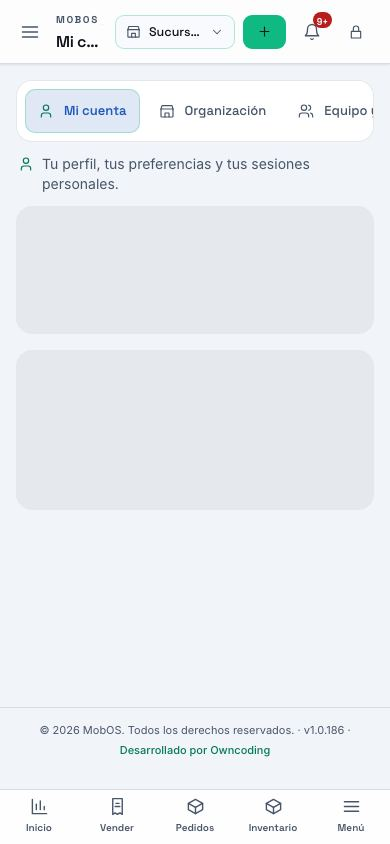
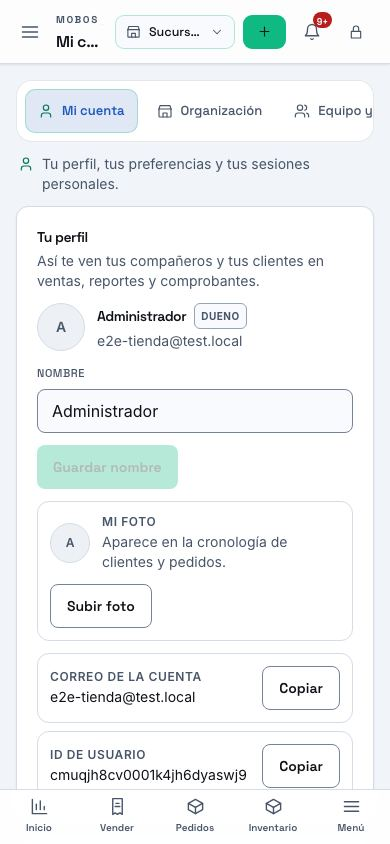
test(e2e): navegación y edición bajo demanda de Configuración (Refs #298)
Spec de 3 casos: riel siempre con texto (escritorio y mobile), tarjeta
única de Datos de la tienda con Editar y barra solo con cambios, y guardado
real que restaura el dato compartido. Specs existentes adaptados; capturas
en docs/qa/298-configuracion y shards regenerados.

diff --git a/e2e/qa-298-configuracion.spec.js b/e2e/qa-298-configuracion.spec.js
@@ -1,0 +1,158 @@
+// #298 · Configuración: una sola navegación con texto y edición bajo demanda.
+//
+// - El riel de los 7 grupos ya no se colapsa a solo iconos: siempre muestra el
+//   rótulo (escritorio y mobile), con el deep link intacto.
+// - «Datos de la tienda» es una única tarjeta: en lectura muestra los datos y
+//   «Editar»; la edición reemplaza la misma tarjeta (2 columnas, dirección a
+//   ancho completo) y la barra «Guardar cambios» aparece solo con cambios.
+//
+// Capturas: MOBOS_298_CAPTURAS=docs/qa/298-configuracion \
+//   npx playwright test e2e/qa-298-configuracion.spec.js
+import { test, expect } from '@playwright/test'
+import { mkdirSync } from 'node:fs'
+import { join } from 'node:path'
+import { SEED } from './helpers/seed-data.js'
+
+const SALIDA = process.env.MOBOS_298_CAPTURAS || ''
+const NAV = '[data-testid="config-grupos"]'
+const TOGGLE = '[data-testid="config-grupos-toggle"]'
+const ETIQUETAS = ['Mi cuenta', 'Organización', 'Equipo y acceso', 'Comercial', 'Seguridad y auditoría', 'Dispositivos', 'Sistema']
+
+async function capturar(page, nombre) {
+  if (!SALIDA) return
+  mkdirSync(SALIDA, { recursive: true })
+  await page.screenshot({ path: join(SALIDA, `${nombre}.png`), fullPage: true })
+}
+
+async function abrirEdicion(page) {
+  await page.goto('/configuracion/organizacion')
+  await page.getByTestId('datos-tienda-editar').click()
+  await expect(page.getByTestId('datos-tienda-form')).toBeVisible()
+  await expect(page.locator('#edit-nombre')).not.toHaveValue('', { timeout: 20_000 })
+}
+
+// La sesión del arnés puede tener vencida la ventana de reautenticación: si el
+// panel aparece, se verifica la contraseña y el guardado sigue solo.
+async function confirmarPasswordSiPide(page) {
+  const panel = page.getByTestId('datos-tienda-reauth')
+  const aparece = await panel.waitFor({ state: 'visible', timeout: 3000 }).then(() => true).catch(() => false)
+  if (!aparece) return
+  await panel.getByLabel('Contraseña para guardar los cambios').fill(SEED.company.password)
+  await panel.getByRole('button', { name: 'Verificar y guardar' }).click()
+}
+
+test('#298 · una sola navegación de Configuración, siempre con texto', async ({ page }) => {
+  await page.setViewportSize({ width: 1280, height: 900 })
+  await page.goto('/configuracion/organizacion')
+  const nav = page.locator(NAV)
+  await expect(nav).toBeVisible({ timeout: 20_000 })
+
+  // Sin toggle de colapso y con los siete rótulos a la vista.
+  await expect(page.locator(TOGGLE)).toHaveCount(0)
+  for (const etiqueta of ETIQUETAS) await expect(nav.getByText(etiqueta, { exact: true })).toBeVisible()
+
+  // Deep link intacto y navegación entre secciones.
+  await page.goto('/configuracion/seguridad')
+  await expect(page.locator(NAV).getByRole('tab', { name: 'Seguridad y auditoría' })).toHaveAttribute('aria-selected', 'true')
+  await page.locator(NAV).getByRole('tab', { name: 'Organización' }).click()
+  await expect(page).toHaveURL(/\/configuracion\/organizacion$/)
+  expect(await page.evaluate(() => document.documentElement.scrollWidth <= document.documentElement.clientWidth + 1)).toBe(true)
+  await capturar(page, '01-navegacion-escritorio')
+
+  // Mobile: tira horizontal, rótulos visibles y sin desborde.
+  await page.setViewportSize({ width: 390, height: 844 })
+  await page.reload()
+  for (const etiqueta of ['Mi cuenta', 'Organización', 'Seguridad y auditoría']) {
+    await expect(page.locator(NAV).getByText(etiqueta, { exact: true })).toBeVisible()
+  }
+  expect(await page.evaluate(() => document.documentElement.scrollWidth <= document.documentElement.clientWidth + 1)).toBe(true)
+  await capturar(page, '02-navegacion-mobile')
+})
+
+test('#298 · Datos de la tienda: una sola tarjeta con Editar y sin resumen duplicado', async ({ page }) => {
+  await page.setViewportSize({ width: 1280, height: 900 })
+  await page.goto('/configuracion/organizacion')
+  await expect(page.getByRole('heading', { name: 'Datos de la tienda', exact: true })).toHaveCount(1)
+  await expect(page.getByTestId('datos-tienda-lectura')).toBeVisible()
+  await expect(page.locator('#edit-nombre')).toHaveCount(0)
+  await expect(page.getByTestId('datos-tienda-form')).toHaveCount(0)
+  await expect(page.getByTestId('datos-tienda-barra')).toHaveCount(0)
+  await capturar(page, '03-datos-lectura')
+
+  await page.getByTestId('datos-tienda-editar').click()
+  // La edición reemplaza la tarjeta: no quedan los datos duplicados al lado.
+  await expect(page.getByTestId('datos-tienda-form')).toBeVisible()
+  await expect(page.getByTestId('datos-tienda-lectura')).toHaveCount(0)
+
+  // Formulario en 2 columnas; la dirección ocupa el ancho completo.
+  const nombre = await page.locator('#edit-nombre').boundingBox()
+  const direccion = await page.locator('#edit-direccion').boundingBox()
+  expect(direccion.width).toBeGreaterThan(nombre.width * 1.6)
+  expect(direccion.y).toBeGreaterThan(nombre.y + 10)
+  // Sin diferencias no hay barra de guardado.
+  await expect(page.getByTestId('datos-tienda-barra')).toHaveCount(0)
+  await capturar(page, '04-datos-edicion')
+
+  // Tocar un campo crea el cambio: la barra aparece; revertirlo la esconde.
+  const original = await page.locator('#edit-direccion').inputValue()
+  await page.locator('#edit-direccion').fill(`${original} QA 298`)
+  await expect(page.getByTestId('datos-tienda-barra')).toContainText('Guardar cambios')
+  await capturar(page, '05-datos-con-cambios')
+  await page.locator('#edit-direccion').fill(original)
+  await expect(page.getByTestId('datos-tienda-barra')).toHaveCount(0)
+
+  // Cancelar vuelve a la tarjeta de lectura.
+  await page.getByRole('button', { name: 'Cancelar' }).click()
+  await expect(page.getByTestId('datos-tienda-lectura')).toBeVisible()
+  await expect(page.getByTestId('datos-tienda-form')).toHaveCount(0)
+})
+
+test('#298 · «Guardar cambios» solo se envía con diferencias y persiste', async ({ page }) => {
+  await page.setViewportSize({ width: 1280, height: 900 })
+  const updates = []
+  page.on('request', (peticion) => {
+    if (peticion.method() === 'PATCH' && peticion.url().includes('/api/account')) updates.push(peticion.postData() || '')
+  })
+
+  await abrirEdicion(page)
+  const original = await page.locator('#edit-direccion').inputValue()
+  const nueva = original === 'Av. QA 298' ? 'Av. QA 298 bis' : 'Av. QA 298'
+  try {
+    // Enter sin cambios: no viaja ningún guardado.
+    await page.locator('#edit-nombre').press('Enter')
+    await page.waitForTimeout(600)
+    expect(updates.filter((cuerpo) => cuerpo.includes('updateProfile'))).toHaveLength(0)
+
+    await page.locator('#edit-direccion').fill(nueva)
+    await page.getByRole('button', { name: 'Guardar cambios' }).click()
+    await confirmarPasswordSiPide(page)
+    await expect(page.getByText('Datos de la tienda actualizados.')).toBeVisible({ timeout: 20_000 })
+    // La tarjeta vuelve a lectura con el dato nuevo.
+    await expect(page.getByTestId('datos-tienda-lectura').getByText(nueva, { exact: true })).toBeVisible()
+    await capturar(page, '06-datos-guardado')
+    // Al menos un envío con el cambio (con reautenticación puede haber un
+    // primer intento rechazado y el reintento).
+    expect(updates.filter((cuerpo) => cuerpo.includes('updateProfile')).length).toBeGreaterThanOrEqual(1)
+
+    await page.reload()
+    await expect(page.getByTestId('datos-tienda-lectura').getByText(nueva, { exact: true })).toBeVisible({ timeout: 20_000 })
+
+    // Restaura el valor compartido por la suite.
+    await page.getByTestId('datos-tienda-editar').click()
+    await page.locator('#edit-direccion').fill(original)
+    await page.getByRole('button', { name: 'Guardar cambios' }).click()
+    await confirmarPasswordSiPide(page)
+    await expect(page.getByTestId('datos-tienda-lectura')).toBeVisible({ timeout: 20_000 })
+    if (original) await expect(page.getByTestId('datos-tienda-lectura').getByText(original, { exact: true })).toBeVisible()
+  } finally {
+    // Red de seguridad: si el test falló a mitad, restaura por API.
+    await page.evaluate(async ({ api, original }) => {
+      await fetch(`${api}/api/account`, {
+        method: 'PATCH',
+        credentials: 'include',
+        headers: { 'Content-Type': 'application/json' },
+        body: JSON.stringify({ action: 'updateProfile', address: original }),
+      }).catch(() => {})
+    }, { api: SEED.api, original })
+  }
+})

diff --git a/playwright.config.js b/playwright.config.js
@@ -121,7 +121,7 @@ export default defineConfig({
     {
       // Seeded owner session (PIN 1234) for control views.
       name: 'admin',
-      testMatch: /admin\.spec\.js|analisis\.spec\.js|auditoria\.spec\.js|campanas-recompra\.spec\.js|cobro-cuotas\.spec\.js|compras-densidad\.spec\.js|config-comercial\.spec\.js|config-guardado\.spec\.js|config-seguro-limites\.spec\.js|configuracion-lote5\.spec\.js|demo-publico\.spec\.js|documentacion\.spec\.js|documentos-no-fiscales\.spec\.js|dsn-241-a11y\.spec\.js|dsn-241-dominios\.spec\.js|dsn-responsive-mobile\.spec\.js|equipo-integrantes\.spec\.js|equipo-invitaciones\.spec\.js|etiquetas-gondola\.spec\.js|etiquetas-unidad\.spec\.js|finanzas-caja\.spec\.js|finanzas-comisiones\.spec\.js|finanzas-conciliacion\.spec\.js|finanzas-ultimo-usado\.spec\.js|ia-configuracion\.spec\.js|imei-mock\.spec\.js|impresion-plantilla\.spec\.js|impresion-remota\.spec\.js|informe-dispositivo\.spec\.js|informe-publico-checklist\.spec\.js|informe-publico-controles\.spec\.js|inventario-importacion\.spec\.js|inventario-pos-sync\.spec\.js|inventario-tabla-encabezado\.spec\.js|inventario-unidades\.spec\.js|invitar-persona\.spec\.js|kardex-producto\.spec\.js|menu-ia\.spec\.js|modales-tamanos\.spec\.js|notificaciones\.spec\.js|ocultos-plataforma\.spec\.js|ops\.spec\.js|perf-247\.spec\.js|pos-148-cobro-ux\.spec\.js|pos-148-s11-sin-stock\.spec\.js|pos-241-carrito-estados\.spec\.js|pos-241-v2\.spec\.js|pos-qa-173\.spec\.js|pos-resumen-fijo\.spec\.js|precios-listas\.spec\.js|public-quote-transfer\.spec\.js|qa-140-inventario\.spec\.js|qa-148-16-menciones\.spec\.js|qa-148-9-pos-montos\.spec\.js|qa-149-cliente-ocasional\.spec\.js|qa-160-perfil\.spec\.js|qa-236-clientes\.spec\.js|qa-240-buscador-dispositivo\.spec\.js|qa-240-garantia-portal\.spec\.js|qa-240-informe\.spec\.js|qa-240-informe-embebible\.spec\.js|qa-240-mensajes-tienda\.spec\.js|qa-240-portal-avisos\.spec\.js|qa-240-portal-cotizaciones\.spec\.js|qa-240-portal-pedido-detalle\.spec\.js|qa-240-portal-seguimiento\.spec\.js|qa-240-portal-vitrina\.spec\.js|qa-240-valuacion\.spec\.js|qa-241-clientes-v2\.spec\.js|qa-241-ficha-paso6\.spec\.js|qa-241-lote-c-tile\.spec\.js|qa-241-servicio-pipeline\.spec\.js|qa-241-servicio-v2\.spec\.js|qa-249-clientes-touch\.spec\.js|qa-249-inventario-touch\.spec\.js|qa-249-pos-touch\.spec\.js|qa-250-buscador-dependiente\.spec\.js|qa-250-cotizacion-correo\.spec\.js|qa-250-escaneo-recepcion\.spec\.js|qa-253-config-grupos\.spec\.js|qa-253-equipo-acceso\.spec\.js|qa-253-mi-cuenta\.spec\.js|qa-254-por-comprar\.spec\.js|qa-256-composicion\.spec\.js|qa-257-inventario-pos\.spec\.js|qa-261-cotizacion-envio\.spec\.js|qa-263-imei-venta\.spec\.js|qa-266-shell-header\.spec\.js|qa-267-config-menu\.spec\.js|qa-268-unificar-clientes\.spec\.js|qa-271-avatar-sin-flash\.spec\.js|qa-284-avatar-cache\.spec\.js|qa-271-avatar-superficies\.spec\.js|qa-279-push\.spec\.js|qa-278-cierre\.spec\.js|qa-280-gift-cards\.spec\.js|qa-279-a2-carrito\.spec\.js|qa-f6-metricas-abastecimiento\.spec\.js|qa-fin-compacto\.spec\.js|qa-260-cotizacion-cliente\.spec\.js|qa-325-roles-movil\.spec\.js|qa-279-transito\.spec\.js|qa-285-unidades\.spec\.js|qa-287-objeto-unificado\.spec\.js|qa-279-alternativas\.spec\.js|qa-323-modales\.spec\.js|quote-approval-otp\.spec\.js|qa-fin-repuestos-taller\.spec\.js|repuestos-proveedores\.spec\.js|ruc-extraccion\.spec\.js|seguridad-cuenta\.spec\.js|selector-sucursal\.spec\.js|servicio-tecnico\.spec\.js|traslados-etiquetas-lote\.spec\.js|vendidos-comprobante-rapido\.spec\.js|qa-320-sistema-visual\.spec\.js|pos-309-orden\.spec\.js|pos-308-venta-segura\.spec\.js|qa-321-ayuda\.spec\.js|qa-322-landing\.spec\.js|qa-323-fin-modales\.spec\.js|qa-305-inventario-escritorio\.spec\.js|qa-297-validacion-global\.spec\.js/,
+      testMatch: /admin\.spec\.js|analisis\.spec\.js|auditoria\.spec\.js|campanas-recompra\.spec\.js|cobro-cuotas\.spec\.js|compras-densidad\.spec\.js|config-comercial\.spec\.js|config-guardado\.spec\.js|config-seguro-limites\.spec\.js|configuracion-lote5\.spec\.js|demo-publico\.spec\.js|documentacion\.spec\.js|documentos-no-fiscales\.spec\.js|dsn-241-a11y\.spec\.js|dsn-241-dominios\.spec\.js|dsn-responsive-mobile\.spec\.js|equipo-integrantes\.spec\.js|equipo-invitaciones\.spec\.js|etiquetas-gondola\.spec\.js|etiquetas-unidad\.spec\.js|finanzas-caja\.spec\.js|finanzas-comisiones\.spec\.js|finanzas-conciliacion\.spec\.js|finanzas-ultimo-usado\.spec\.js|ia-configuracion\.spec\.js|imei-mock\.spec\.js|impresion-plantilla\.spec\.js|impresion-remota\.spec\.js|informe-dispositivo\.spec\.js|informe-publico-checklist\.spec\.js|informe-publico-controles\.spec\.js|inventario-importacion\.spec\.js|inventario-pos-sync\.spec\.js|inventario-tabla-encabezado\.spec\.js|inventario-unidades\.spec\.js|invitar-persona\.spec\.js|kardex-producto\.spec\.js|menu-ia\.spec\.js|modales-tamanos\.spec\.js|notificaciones\.spec\.js|ocultos-plataforma\.spec\.js|ops\.spec\.js|perf-247\.spec\.js|pos-148-cobro-ux\.spec\.js|pos-148-s11-sin-stock\.spec\.js|pos-241-carrito-estados\.spec\.js|pos-241-v2\.spec\.js|pos-qa-173\.spec\.js|pos-resumen-fijo\.spec\.js|precios-listas\.spec\.js|public-quote-transfer\.spec\.js|qa-140-inventario\.spec\.js|qa-148-16-menciones\.spec\.js|qa-148-9-pos-montos\.spec\.js|qa-149-cliente-ocasional\.spec\.js|qa-160-perfil\.spec\.js|qa-236-clientes\.spec\.js|qa-240-buscador-dispositivo\.spec\.js|qa-240-garantia-portal\.spec\.js|qa-240-informe\.spec\.js|qa-240-informe-embebible\.spec\.js|qa-240-mensajes-tienda\.spec\.js|qa-240-portal-avisos\.spec\.js|qa-240-portal-cotizaciones\.spec\.js|qa-240-portal-pedido-detalle\.spec\.js|qa-240-portal-seguimiento\.spec\.js|qa-240-portal-vitrina\.spec\.js|qa-240-valuacion\.spec\.js|qa-241-clientes-v2\.spec\.js|qa-241-ficha-paso6\.spec\.js|qa-241-lote-c-tile\.spec\.js|qa-241-servicio-pipeline\.spec\.js|qa-241-servicio-v2\.spec\.js|qa-249-clientes-touch\.spec\.js|qa-249-inventario-touch\.spec\.js|qa-249-pos-touch\.spec\.js|qa-250-buscador-dependiente\.spec\.js|qa-250-cotizacion-correo\.spec\.js|qa-250-escaneo-recepcion\.spec\.js|qa-253-config-grupos\.spec\.js|qa-253-equipo-acceso\.spec\.js|qa-253-mi-cuenta\.spec\.js|qa-254-por-comprar\.spec\.js|qa-256-composicion\.spec\.js|qa-257-inventario-pos\.spec\.js|qa-261-cotizacion-envio\.spec\.js|qa-263-imei-venta\.spec\.js|qa-266-shell-header\.spec\.js|qa-268-unificar-clientes\.spec\.js|qa-271-avatar-sin-flash\.spec\.js|qa-284-avatar-cache\.spec\.js|qa-271-avatar-superficies\.spec\.js|qa-279-push\.spec\.js|qa-278-cierre\.spec\.js|qa-280-gift-cards\.spec\.js|qa-279-a2-carrito\.spec\.js|qa-f6-metricas-abastecimiento\.spec\.js|qa-fin-compacto\.spec\.js|qa-260-cotizacion-cliente\.spec\.js|qa-325-roles-movil\.spec\.js|qa-279-transito\.spec\.js|qa-285-unidades\.spec\.js|qa-287-objeto-unificado\.spec\.js|qa-279-alternativas\.spec\.js|qa-323-modales\.spec\.js|quote-approval-otp\.spec\.js|qa-fin-repuestos-taller\.spec\.js|repuestos-proveedores\.spec\.js|ruc-extraccion\.spec\.js|seguridad-cuenta\.spec\.js|selector-sucursal\.spec\.js|servicio-tecnico\.spec\.js|traslados-etiquetas-lote\.spec\.js|vendidos-comprobante-rapido\.spec\.js|qa-320-sistema-visual\.spec\.js|pos-309-orden\.spec\.js|pos-308-venta-segura\.spec\.js|qa-321-ayuda\.spec\.js|qa-322-landing\.spec\.js|qa-323-fin-modales\.spec\.js|qa-305-inventario-escritorio\.spec\.js|qa-297-validacion-global\.spec\.js|qa-298-configuracion\.spec\.js/,
 
       use: { storageState: 'e2e/.auth/admin.json' },
     },

diff --git a/e2e/qa-253-config-grupos.spec.js b/e2e/qa-253-config-grupos.spec.js
@@ -84,35 +84,18 @@ test.describe('Configuración · estructura de los 7 grupos', () => {
     }
   })
 
-  test('la navegación se contrae a íconos con tooltip y se recuerda', async ({ page }) => {
+  test('la navegación siempre muestra los rótulos (sin colapso a íconos) (#298)', async ({ page }) => {
     await page.setViewportSize({ width: 1280, height: 900 })
     await page.goto('/configuracion/mi-cuenta')
     const nav = page.locator(NAV)
-    const toggle = page.getByTestId('config-grupos-toggle')
-    await expect(toggle).toBeVisible({ timeout: 20_000 })
-    await expect(toggle).toHaveAttribute('aria-expanded', 'true')
-
-    await toggle.click()
-    await expect(toggle).toHaveAttribute('aria-expanded', 'false')
-    await expect(toggle).toHaveAttribute('aria-expanded', 'false')
-    // Solo íconos: la etiqueta visible se oculta y el nombre sigue por aria/title.
-    await expect(nav.getByText('Organización', { exact: true })).toBeHidden()
-    const tab = page.getByRole('tab', { name: 'Organización', exact: true })
-    await expect(tab).toHaveAttribute('title', 'Organización')
-    await expect(tab).toHaveAttribute('aria-label', 'Organización')
+    await expect(nav.getByText('Organización', { exact: true })).toBeVisible({ timeout: 20_000 })
+    // #298: se retiró el colapso a solo iconos; el riel conserva su ancho.
+    await expect(page.getByTestId('config-grupos-toggle')).toHaveCount(0)
     const caja = await nav.boundingBox()
-    expect(caja.width, 'el riel queda angosto (solo íconos)').toBeLessThan(120)
-
-    // Se recuerda en el dispositivo.
-    await page.reload()
-    await expect(page.getByTestId('config-grupos-toggle')).toHaveAttribute('aria-expanded', 'false')
-
-
-    await page.getByTestId('config-grupos-toggle').click()
-    await expect(page.getByTestId('config-grupos-toggle')).toHaveAttribute('aria-expanded', 'true')
+    expect(caja.width, 'el riel conserva el ancho con texto').toBeGreaterThan(200)
   })
 
-  test('capturas del menú colapsable', async ({ page }) => {
+  test('capturas de la navegación con texto', async ({ page }) => {
     test.setTimeout(180_000)
     const salida = process.env.MOBOS_CAPTURAS || 'test-results/253-config-nav'
     mkdirSync(salida, { recursive: true })
@@ -123,18 +106,15 @@ test.describe('Configuración · estructura de los 7 grupos', () => {
       await expect(page.getByRole('tab', { name: 'Mi cuenta', exact: true }).first()).toBeVisible({ timeout: 20_000 })
       await page.evaluate(() => { try { localStorage.removeItem('mobos:config-menu') } catch { /* sin storage */ } })
       await page.reload()
-      await expect(page.getByTestId('config-grupos-toggle')).toHaveAttribute('aria-expanded', 'true')
-      await page.screenshot({ path: `${salida}/nav-expandido-${tema}-desktop.jpg`, type: 'jpeg', quality: 78 })
-      await page.getByTestId('config-grupos-toggle').click()
-      await expect(page.getByTestId('config-grupos-toggle')).toHaveAttribute('aria-expanded', 'false')
-      await page.screenshot({ path: `${salida}/nav-colapsado-${tema}-desktop.jpg`, type: 'jpeg', quality: 78 })
+      await expect(page.locator(NAV).getByText('Organización', { exact: true })).toBeVisible()
+      await expect(page.getByTestId('config-grupos-toggle')).toHaveCount(0)
+      await page.screenshot({ path: `${salida}/nav-texto-${tema}-desktop.jpg`, type: 'jpeg', quality: 78 })
 
       if (tema === 'claro') {
-        // Mobile/tablet: la tira horizontal (el toggle no se muestra).
+        // Mobile/tablet: la tira horizontal, siempre con rótulos.
         await page.setViewportSize({ width: 390, height: 844 })
         await page.goto('/configuracion/mi-cuenta')
         await expect(page.getByRole('tab', { name: 'Mi cuenta', exact: true }).first()).toBeVisible({ timeout: 20_000 })
-        await expect(page.getByTestId('config-grupos-toggle')).toBeHidden()
         await page.screenshot({ path: `${salida}/nav-horizontal-mobile-claro.jpg`, type: 'jpeg', quality: 78 })
       }
     }

diff --git a/e2e/config-guardado.spec.js b/e2e/config-guardado.spec.js
@@ -34,6 +34,8 @@ async function abrirNegocio(page) {
   // #IA: Negocio pasó a Organización (la ruta vieja redirige igual).
   await page.goto('/configuracion/organizacion')
   await expect(page.locator('#cuenta-form')).toBeVisible()
+  // #298: la tarjeta arranca en lectura; «Editar» abre el formulario.
+  await page.getByTestId('datos-tienda-editar').click()
   // El formulario se hidrata con la cuenta: se espera a que llegue.
   await expect(page.locator('#edit-nombre')).not.toHaveValue('', { timeout: 20_000 })
 }
@@ -53,7 +55,7 @@ async function confirmarPassword(page, id) {
   await panel.getByRole('button', { name: 'Verificar y guardar' }).click()
 }
 
-test('Datos de la tienda: Guardar persiste y la ficha lo refleja', async ({ page }) => {
+test('Datos de la tienda: Editar, Guardar persiste y la tarjeta lo refleja', async ({ page }) => {
   await abrirNegocio(page)
   const form = page.locator('#cuenta-form')
   const original = {
@@ -65,26 +67,34 @@ test('Datos de la tienda: Guardar persiste y la ficha lo refleja', async ({ page
   await page.locator('#edit-direccion').fill('Av. Mcal. López 1234, Asunción')
   await page.locator('#edit-ruc').fill('80012345-6')
   await form.getByLabel('Teléfono').fill('981 000 111')
-  const telefono = await form.getByLabel('Teléfono').inputValue()
   // Enter guarda: el pie de acciones es el submit del formulario.
   await page.locator('#edit-direccion').press('Enter')
   await page.waitForTimeout(700)
   await capturar(page, 'datos-tienda-enter')
   await confirmarPassword(page, 'datos-tienda')
-  await expect(page.getByTestId('datos-tienda-estado')).toContainText('Guardado', { timeout: 15_000 })
+  // #298: al guardar, la tarjeta vuelve a lectura y el dato queda visible.
+  await expect(form.getByTestId('datos-tienda-lectura').getByText('80012345-6', { exact: true })).toBeVisible({ timeout: 15_000 })
+  await expect(form.getByTestId('datos-tienda-lectura').getByText('Av. Mcal. López 1234, Asunción', { exact: true })).toBeVisible()
   await capturar(form, 'datos-tienda-guardado')
   await page.reload()
-  await expect(page.locator('#edit-ruc')).toHaveValue('80012345-6', { timeout: 20_000 })
-  await expect(page.locator('#edit-direccion')).toHaveValue('Av. Mcal. López 1234, Asunción')
-  await expect(form.getByLabel('Teléfono')).toHaveValue(telefono)
-  // La ficha de identidad (panel izquierdo) muestra lo guardado.
-  await expect(page.getByText('80012345-6').first()).toBeVisible()
+  await expect(form.getByTestId('datos-tienda-lectura').getByText('80012345-6', { exact: true })).toBeVisible({ timeout: 20_000 })
+  await expect(form.getByTestId('datos-tienda-lectura').getByText(/981 000 111/)).toBeVisible()
   // Restaura los valores originales (la tienda la comparte toda la suite).
+  await page.getByTestId('datos-tienda-editar').click()
   await page.locator('#edit-direccion').fill(original.direccion)
   await page.locator('#edit-ruc').fill(original.ruc)
   await form.getByLabel('Teléfono').fill(original.telefono)
   await page.getByRole('button', { name: 'Guardar cambios' }).click()
-  await expect(page.getByTestId('datos-tienda-estado')).toContainText('Guardado', { timeout: 15_000 })
+  await confirmarPassword(page, 'datos-tienda')
+  // La dirección original del seed puede estar vacía: en ese caso la tarjeta
+  // muestra «—». Se verifica que volvió a lectura y el valor quedó restaurado.
+  await expect(form.getByTestId('datos-tienda-lectura')).toBeVisible({ timeout: 15_000 })
+  if (original.direccion) {
+    await expect(form.getByTestId('datos-tienda-lectura').getByText(original.direccion, { exact: true })).toBeVisible()
+  } else {
+    await page.reload()
+    await expect(form.getByTestId('datos-tienda-lectura').getByText('—').first()).toBeVisible({ timeout: 20_000 })
+  }
 })
 
 test('Identificador de pedidos: Enter guarda y el error queda en la sección', async ({ page }) => {

diff --git a/e2e/ruc-extraccion.spec.js b/e2e/ruc-extraccion.spec.js
@@ -118,8 +118,9 @@ test('Config: RUC del negocio', async ({ page }) => {
   // #IA: Negocio pasó a Organización (la ruta vieja redirige igual).
   await page.goto('/configuracion/negocio')
   await expect(page.locator('h1')).toHaveText('Organización')
-  // El negocio carga async y rellena el formulario: si se llena antes, la
-  // carga pisa el valor. Se espera a que el nombre cargado esté presente.
+  // #298: la tarjeta de Datos de la tienda arranca en lectura; «Editar» abre el
+  // formulario y recién ahí se llena con lo guardado.
+  await page.getByTestId('datos-tienda-editar').click()
   await expect(page.locator('#edit-nombre')).not.toHaveValue('', { timeout: 20000 })
   const ruc = page.locator('#edit-ruc')
   const raiz = ruc.locator('xpath=../..')
